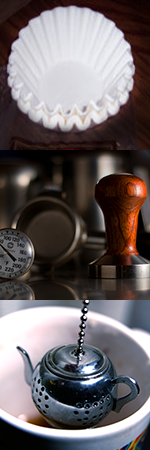
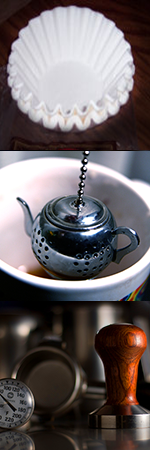
random spin result; bootstrap button; working spining animation;

diff --git a/js/slotmachine.js b/js/slotmachine.js
@@ -4,7 +4,6 @@ $(document).ready(function() {
 var IMAGE_HEIGHT = 150;
 var DURATION = 10000; 
 var ITEM_COUNT = 3; 
-var RANDOM = Math.floor(Math.random()*3);
 var $play = $('#play')
 
 var results = new Array();
@@ -19,19 +18,19 @@ var results = new Array();
     results[8] = "Tea Time!";
 
 
-$play.click(function(){
-    goToPosition('machine', 300)
-    goToPosition('filter', 300)
-    goToPosition('material', 300)
-    var random_result_text = results[Math.floor(Math.random() * results.length)]
-    _.after(alert(random_result_text));
 
+$play.click(function(){
+    var spin_value = Math.floor(Math.random()*ITEM_COUNT)
+
+    goToPosition('machine', spin_value)
+    goToPosition('filter', spin_value)
+    goToPosition('material', spin_value)
 })
 
 
 function goToPosition(slot_type, position) {
     var slot = $('.slot#' + slot_type)
-    var offset = position * IMAGE_HEIGHT
+    var offset = ( ITEM_COUNT + position ) * IMAGE_HEIGHT
 
 
     slot.css({ 
@@ -49,9 +48,5 @@ function goToPosition(slot_type, position) {
         }
     })
 }
-
-var random_result_text = results[Math.floor(Math.random() * results.length)]
-_.after(alert(random_result_text));
-
 
 })

diff --git a/index.html b/index.html
@@ -40,8 +40,31 @@
 
 	<div class="row-fluid">
 		<div class="span1">
-			<div class="btn" id="play">trout</div>
+			<div class="btn">
+				<button class="btn" id="play">trout</button>
+			</div>
 		</div>
 	</div>
+
+	<div class="row-fluid">
+		<div class="span8">
+			<div class="alert alert-block">
+			  <button type="button" class="close" data-dismiss="alert">&times;</button>
+			  
+			</div>
+		</div>
+	</div>
+
+
+
+
+</div>
 </body>
 </html>
+
+
+
+
+
+
+

diff --git a/styles/styles.less b/styles/styles.less
@@ -55,5 +55,4 @@ header {
 
 #play {
 	margin: auto;
-	color: #040;
 }
